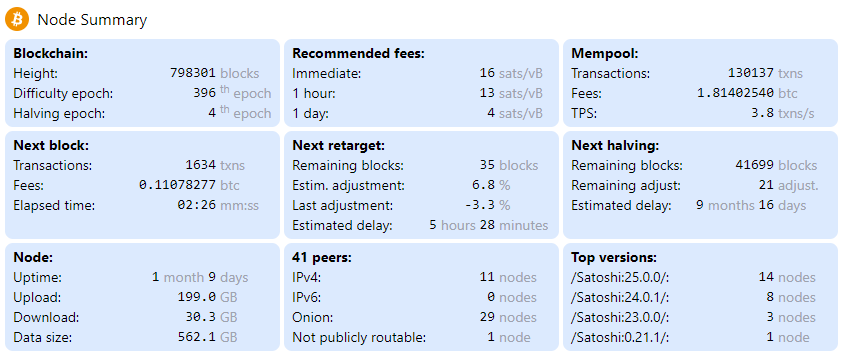
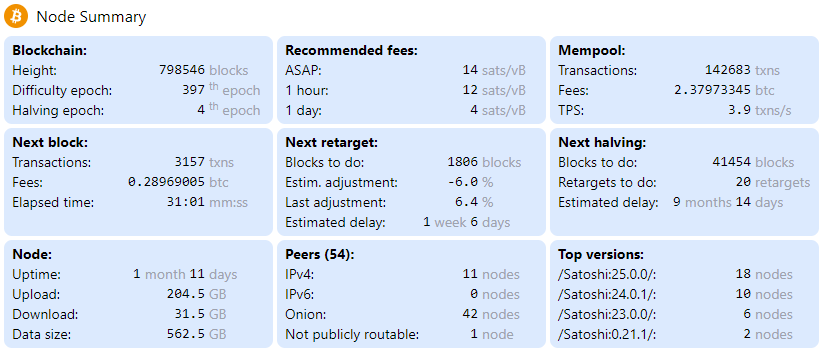
Corrected invalid ordinals and enlarge units col.

Changed region(s): [[0.0, 0.0, 1.0, 0.9972], [0.1523, 0.4363, 0.3045, 0.5921]]

diff --git a/app/cards.js b/app/cards.js
@@ -108,7 +108,7 @@ function formatBlocks(val) {
 }
 
 function formatRetargets(val) {
-  return [val, "adjust."]
+  return [val, "retarget" + s(val)]
 }
 
 // TXN is abbreviation for transactions (https://en.wikipedia.org/wiki/TXN#:~:text=TXN%2C%20abbreviation%20for%20transaction%20(disambiguation))
@@ -121,8 +121,9 @@ function formatPeers(val) {
 }
 
 function formatEpoch(epoch) {
-  const digit = epoch % 10;
-  const ord = digit == 1 ? 'st' : digit == 2 ? 'nd' : digit == 3 ? 'rd' : 'th'
+  const digit = epoch % 10
+  const tens = Math.floor(epoch / 10) % 10
+  const ord = (digit == 1 && tens != 1) ? 'st' : (digit == 2 && tens != 1) ? 'nd' : (digit == 3 && tens != 1) ? 'rd' : 'th'
   return [epoch, <div key="1"><sup>{ord}</sup> epoch</div>]
 }
 
@@ -135,7 +136,7 @@ export default async function Cards({summary}) {
         {"Halving epoch": formatEpoch(summary.halving_epoch)}
       ]}/>
       <Card title={"Recommended fees"} items={[
-        {"Immediate": formatFee(summary.feerates["1"])},
+        {"ASAP": formatFee(summary.feerates["1"])},
         {"1 hour": formatFee(summary.feerates["6"])},
         {"1 day": formatFee(summary.feerates["144"])}
       ]}/>
@@ -150,14 +151,14 @@ export default async function Cards({summary}) {
         {"Elapsed time": formatSeconds(summary.time_since_last_bloc)}
       ]}/>
       <Card title={"Next retarget"} items={[
-        {"Remaining blocks": formatBlocks(summary.next_retarget.blocks)},
+        {"Blocks to do": formatBlocks(summary.next_retarget.blocks)},
         {"Estim. adjustment": formatPercent(summary.next_retarget.estimated_diff_adj_percent)},
         {"Last adjustment": formatPercent(summary.prev_diff_adj_percent)},
         {"Estimated delay": formatDays(summary.next_retarget.days)},
       ]}/>
       <Card title={"Next halving"} items={[
-        {"Remaining blocks": formatBlocks(summary.next_halving.blocks)},
-        {"Remaining adjust": formatRetargets(summary.next_halving.retargets)},
+        {"Blocks to do": formatBlocks(summary.next_halving.blocks)},
+        {"Retargets to do": formatRetargets(summary.next_halving.retargets)},
         {"Estimated delay": formatDays(summary.next_halving.days)}
       ]}/>
       <Card title={"Node"} items={[
@@ -166,7 +167,7 @@ export default async function Cards({summary}) {
         {"Download": formatSize(summary.totalbytesrecv)},
         {"Data size": formatSize(summary.size_on_disk)}
       ]}/>
-      <Card title={`${summary.peers.total} peers`} items={[
+      <Card title={`Peers (${summary.peers.total})`} items={[
         {"IPv4": formatPeers(summary.peers.ipv4)},
         {"IPv6": formatPeers(summary.peers.ipv6)},
         {"Onion": formatPeers(summary.peers.onion)},

diff --git a/app/card.js b/app/card.js
@@ -40,8 +40,7 @@ export default async function Card({title, items}) {
                 // if value is an array then unit is second element of array (in jsx format), otherwise there is no unit
                 const unit = Array.isArray(valUnit) ? valUnit[1] : emptyCell
                 return (
-                  // 52px would be w-13
-                  <div key={index} className="w-[52px] text-gray-400">
+                  <div key={index} className="w-14 text-gray-400">
                     {unit}
                   </div>
                 )
